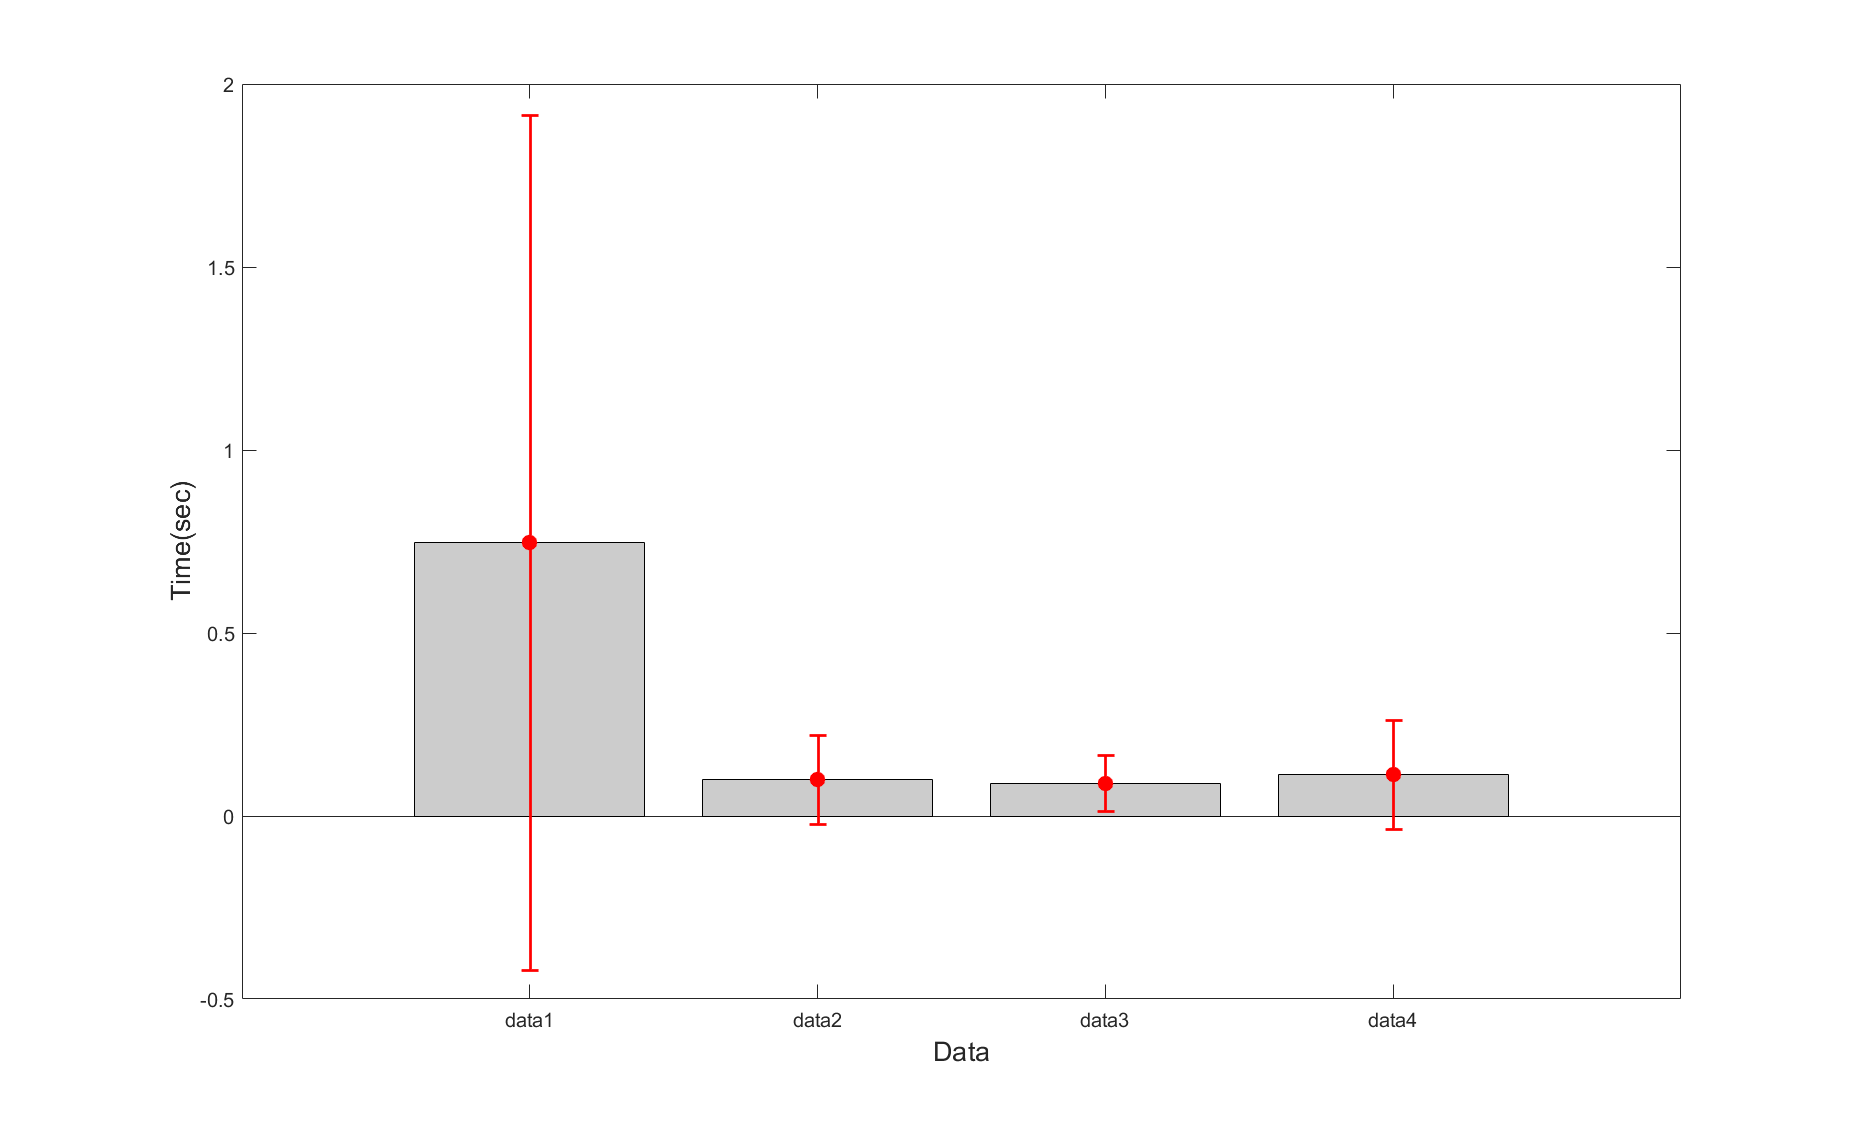
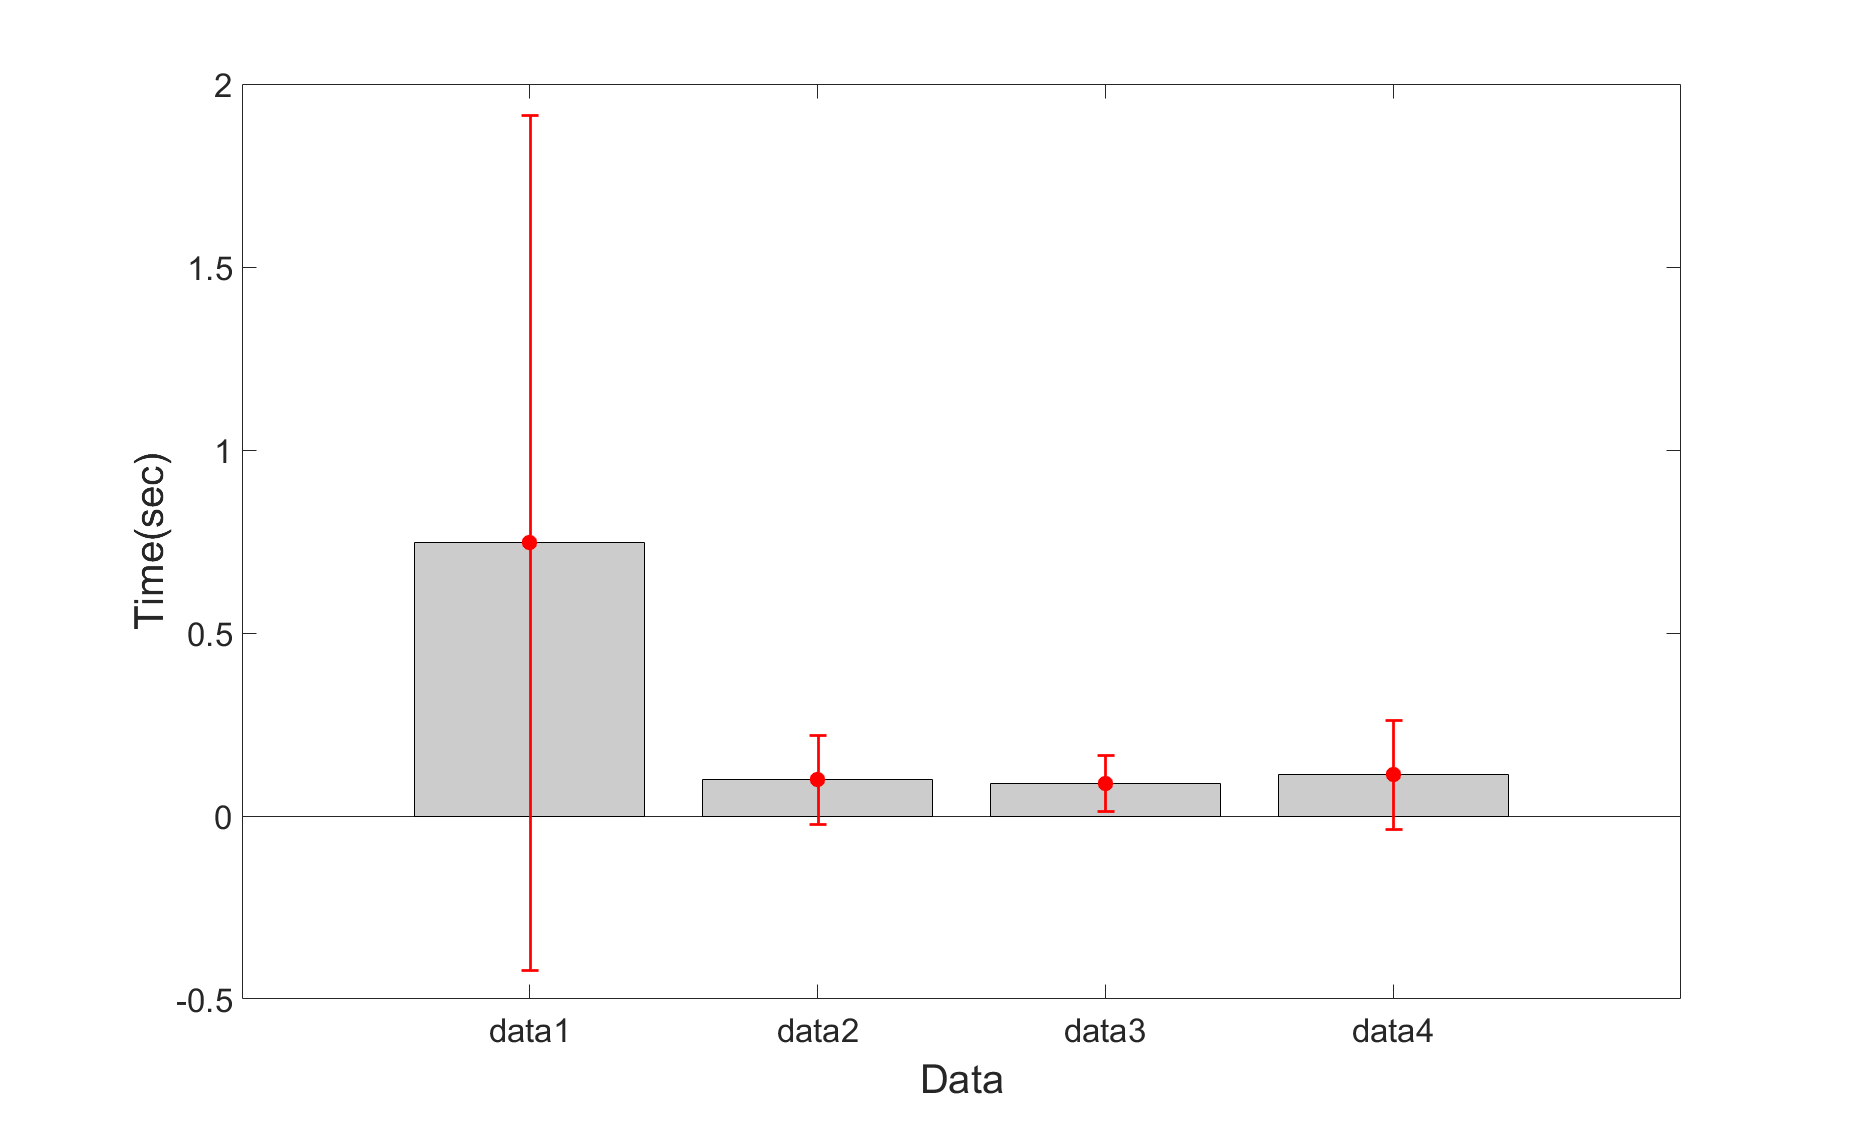
...

diff --git a/mean_variance_plot/mean_variance_plot.m b/mean_variance_plot/mean_variance_plot.m
@@ -17,6 +17,6 @@ hdev.Marker = '.';      % deviation bar marker type
 hdev.MarkerSize = 40;   % deviation bar marker size
 
 set(gca, 'XTickLabel', {'data1' 'data2' 'data3' 'data4'}) % x tick label
-set(gca, 'FontSize', 15)    % tick font size
-xlabel('Data','FontSize', 20); 
-ylabel('Time(sec)', 'FontSize',20);
+set(gca, 'FontSize', 25)    % tick font size
+xlabel('Data','FontSize', 30); 
+ylabel('Time(sec)', 'FontSize',30);
